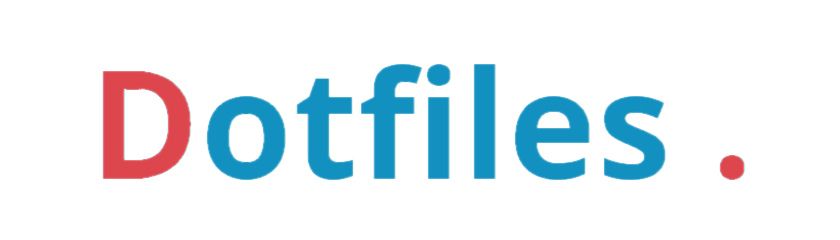
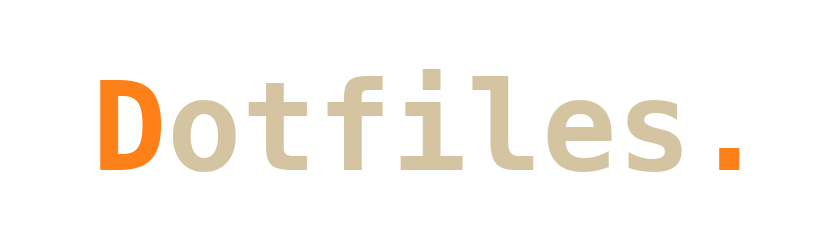
Updated README to gruvbox

Changed region(s): [[0.0929, 0.2625, 0.8976, 0.7583]]

diff --git a/README.md b/README.md
@@ -3,7 +3,7 @@
 ##
 ## :penguin: My Personal Dotfiles!
 
-<a href="https://miikanissi.com"><img src="https://github.com/miikanissi/dotfiles/blob/master/.config/gallery/arch_desktop.png?raw=true" alt="desktop-thumbnail" align="right" width="400px"></a>
+<a href="https://miikanissi.com"><img src="https://github.com/miikanissi/dotfiles/blob/master/.config/gallery/desktop_bspwm_gruvbox_full.jpg?raw=true" alt="bspwm desktop thumbnail" align="right" width="400px"></a>
 
 This is my personal configuration for a custom "Desktop Environment" and other useful programs. To see a list of all my programs check [program_list_arch.csv](https://github.com/miikanissi/dotfiles/master/arch/program_list_arch.csv).
 
@@ -23,8 +23,8 @@ Here are the details of my setup:
 - **Music Player**   : [MPD](https://www.musicpd.org/). [NCMPCPP](https://github.com/ncmpcpp/ncmpcpp) :musical_note: Polybar integration
 
 ## :art: Colors
-### <p align="center">[Hopscotch Color Scheme](https://base16.netlify.app/previews/base16-hopscotch.html)</p>
-<p align="center"><a name="top" href="#art-colors"><img src="https://github.com/miikanissi/dotfiles/blob/master/.config/gallery/base16-hopscotch.png?raw=true" alt="hopscotch-color-scheme" height="60%" width="100%"></a></p>
+### <p align="center">[Gruvbox Colors](https://github.com/morhetz/gruvbox)</p>
+<p align="center"><a name="top" href="#art-colors"><img src="https://github.com/miikanissi/dotfiles/blob/master/.config/gallery/gruvbox-template.png?raw=true" alt="gruvbox color scheme" height="60%" width="100%"></a></p>
 
 ## :scroll: Scripts
 Most of my useful shell scripts are included in [.local/bin/](https://github.com/miikanissi/dotfiles/tree/master/.local/bin).
